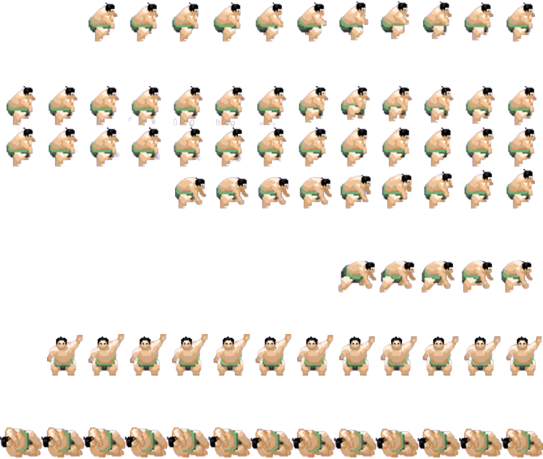
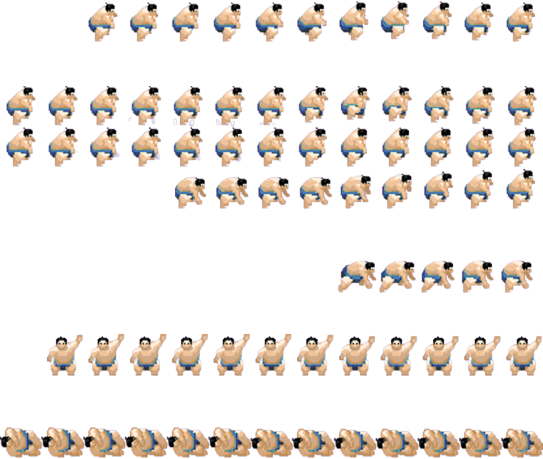
adds player images to game

diff --git a/scripts/classes/game.js b/scripts/classes/game.js
@@ -21,14 +21,11 @@ class Game {
   }
 
   start() {
-    // player start positions
-
     // create players
     this.playerOne = new Player(
       this.canvas,
       this.startPosOne,
       25,
-      "#66D3FA",
       this.playerOneName,
       this.playerOneMass
     );
@@ -36,7 +33,6 @@ class Game {
       this.canvas,
       this.startPosTwo,
       25,
-      "#FFA500",
       this.playerTwoName,
       this.playerTwoMass
     );
@@ -124,8 +120,49 @@ class Game {
   }
 
   drawPlayers() {
-    this.playerOne.draw();
-    this.playerTwo.draw();
+    // initial values
+    sumoOne.x = sumoSize * 12;
+    // player one state
+    if (this.playerOne.speed < 0.15) {
+      sumoOne.y = 0;
+    } else {
+      sumoOne.y = sumoSize * 6;
+    }
+    console.log(sumoOne.x, sumoOne.y);
+    console.log(sumoTwo.x, sumoTwo.y);
+    // draw player one draw
+    this.ctx.drawImage(
+      sumoOne.img,
+      sumoOne.x,
+      sumoOne.y,
+      sumoSize,
+      sumoSize,
+      this.playerOne.x - 35,
+      this.playerOne.y - 35,
+      70,
+      70
+    );
+    // initial values
+    sumoTwo.x = 0;
+    // player two state
+    if (this.playerTwo.speed < 0.15) {
+      sumoTwo.y = 0;
+    } else {
+      sumoTwo.y = sumoSize * 6;
+    }
+
+    // player two draw
+    this.ctx.drawImage(
+      sumoTwo.img,
+      sumoTwo.x,
+      sumoTwo.y,
+      sumoSize,
+      sumoSize,
+      this.playerTwo.x - 35,
+      this.playerTwo.y - 35,
+      70,
+      70
+    );
   }
 
   drawPlayerInfo() {

diff --git a/scripts/classes/players.js b/scripts/classes/players.js
@@ -1,10 +1,9 @@
 class Player {
-  constructor(canvas, x, radius, color, name, mass) {
+  constructor(canvas, x, radius, name, mass) {
     this.canvas = canvas;
     this.ctx = this.canvas.getContext("2d");
     this.name = name;
     this.radius = radius;
-    this.color = color;
     this.x = x;
     this.y = canvas.height / 2;
     this.vx = 0;
@@ -16,30 +15,6 @@ class Player {
     this.angle = { radians: 0, degrees: 0 };
     this.friction = 0.05;
     this.lives = 3;
-  }
-
-  draw() {
-    // draw player circle
-    this.ctx.beginPath();
-    this.ctx.lineWidth = 5;
-    this.ctx.strokeStyle = this.color;
-    this.ctx.arc(this.x, this.y, this.radius, 0, Math.PI * 2, false);
-    this.ctx.stroke();
-    this.ctx.closePath();
-    // draw player name
-    this.ctx.textAlign = "center";
-    this.ctx.textBaseline = "middle";
-    this.ctx.fillText(this.name, this.x, this.y);
-    // Draw heading vector
-    this.ctx.beginPath();
-    this.ctx.lineWidth = 2;
-    this.ctx.strokeStyle = "black";
-    // this.ctx.arc(this.x, this.y, Math.abs(this.vx * 10));
-    this.ctx.moveTo(this.x, this.y);
-    this.ctx.lineTo(this.x + this.vx * 10, this.y + this.vy * 10);
-    this.ctx.stroke();
-
-    this.ctx.closePath();
   }
 
   checkFall() {

diff --git a/scripts/screens/characterScreen.js b/scripts/screens/characterScreen.js
@@ -1,8 +1,8 @@
 const playerInfo = {
-  playerOneName: null,
-  playerOneWeight: null,
-  playerTwoName: null,
-  playerTwoWeight: null,
+  playerOneName: "player one",
+  playerOneWeight: 1,
+  playerTwoName: "player two",
+  playerTwoWeight: 1,
 };
 
 const buildCharactersScreen = () => {

diff --git a/scripts/animations/animateSumo.js b/scripts/animations/animateSumo.js
@@ -1,4 +1,4 @@
-const sumoSize = 41.7;
+const sumoSize = 41.76;
 
 let requestId = null;
 
